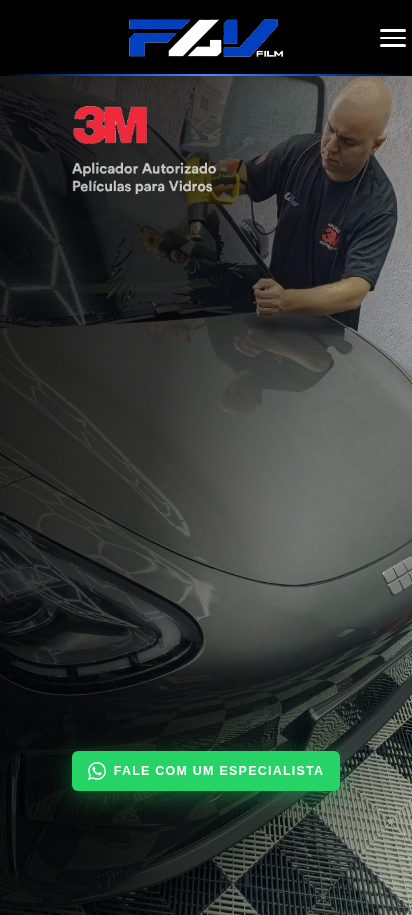
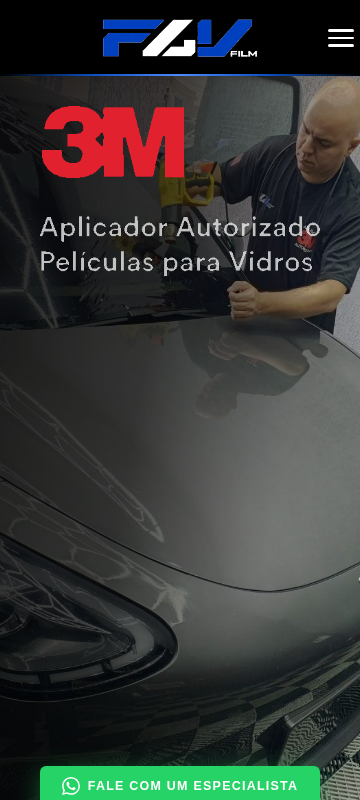
Add files via upload

diff --git a/style.css b/style.css
@@ -793,7 +793,7 @@ img { display: block; max-width: 100%; }
   .hero-body { padding: 30px 20px 70px; }
   .hero-desktop-only { display: none; }
   .hero-mobile-only { display: block; }
-  .hero-3m-big { height: 88px; }
+  .hero-3m-big { height: 170px; }
   .btn-hero-wpp { width: 100%; justify-content: center; padding: 11px 16px; font-size: .78rem; gap: 8px; margin-top: 58vh; }
   .btn-hero-wpp svg { width: 18px; height: 18px; }
 
